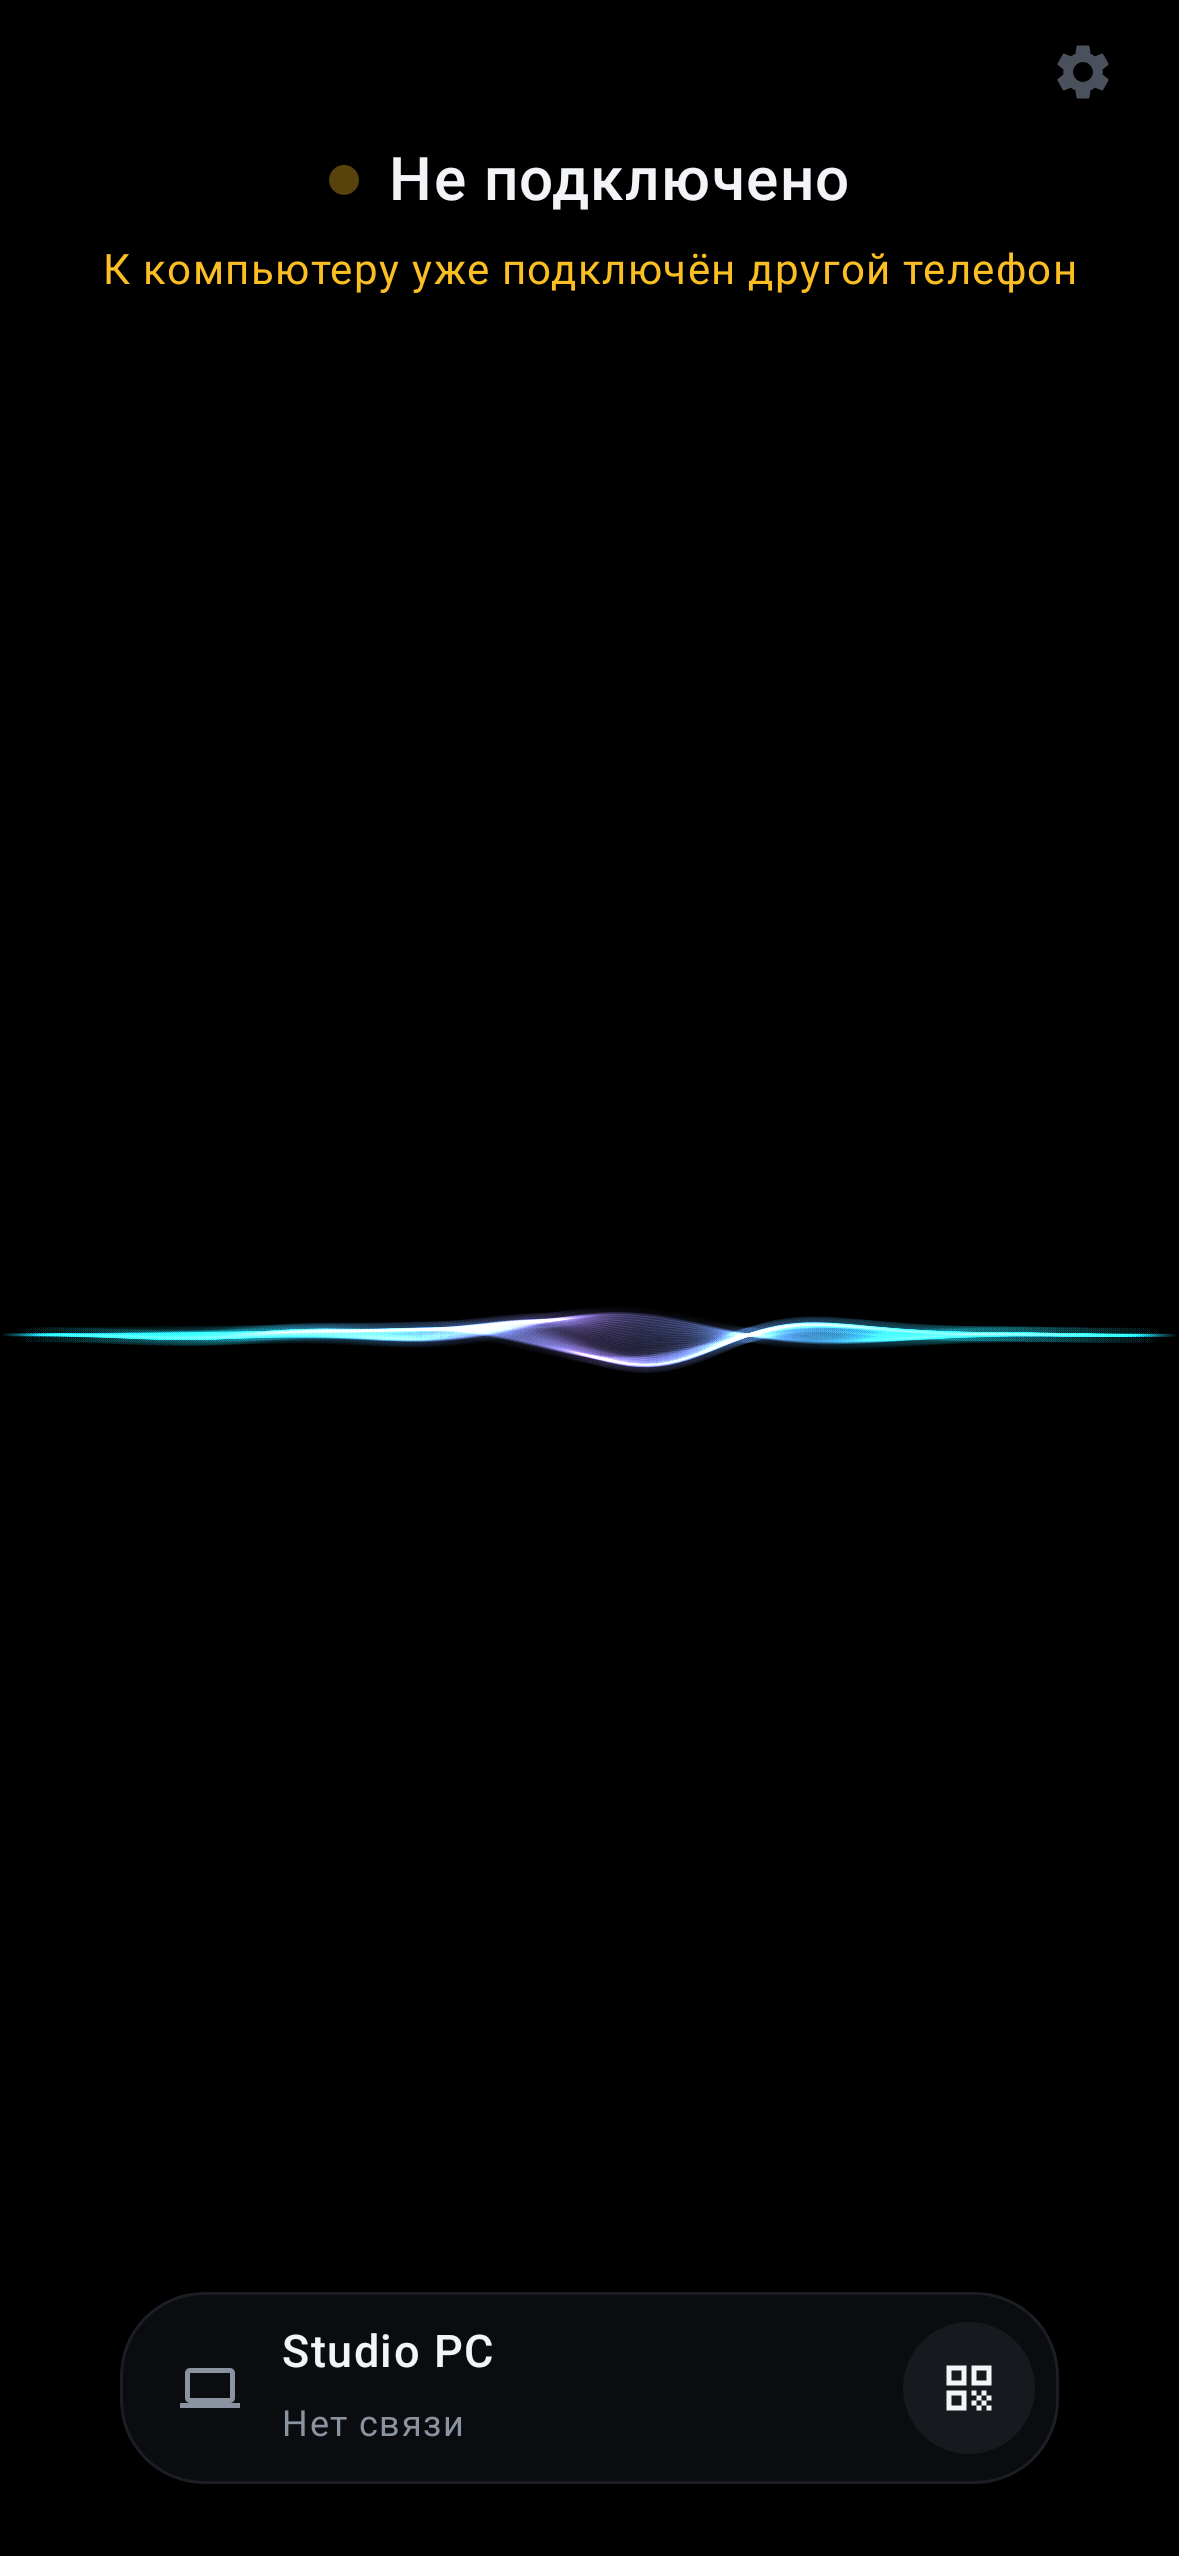
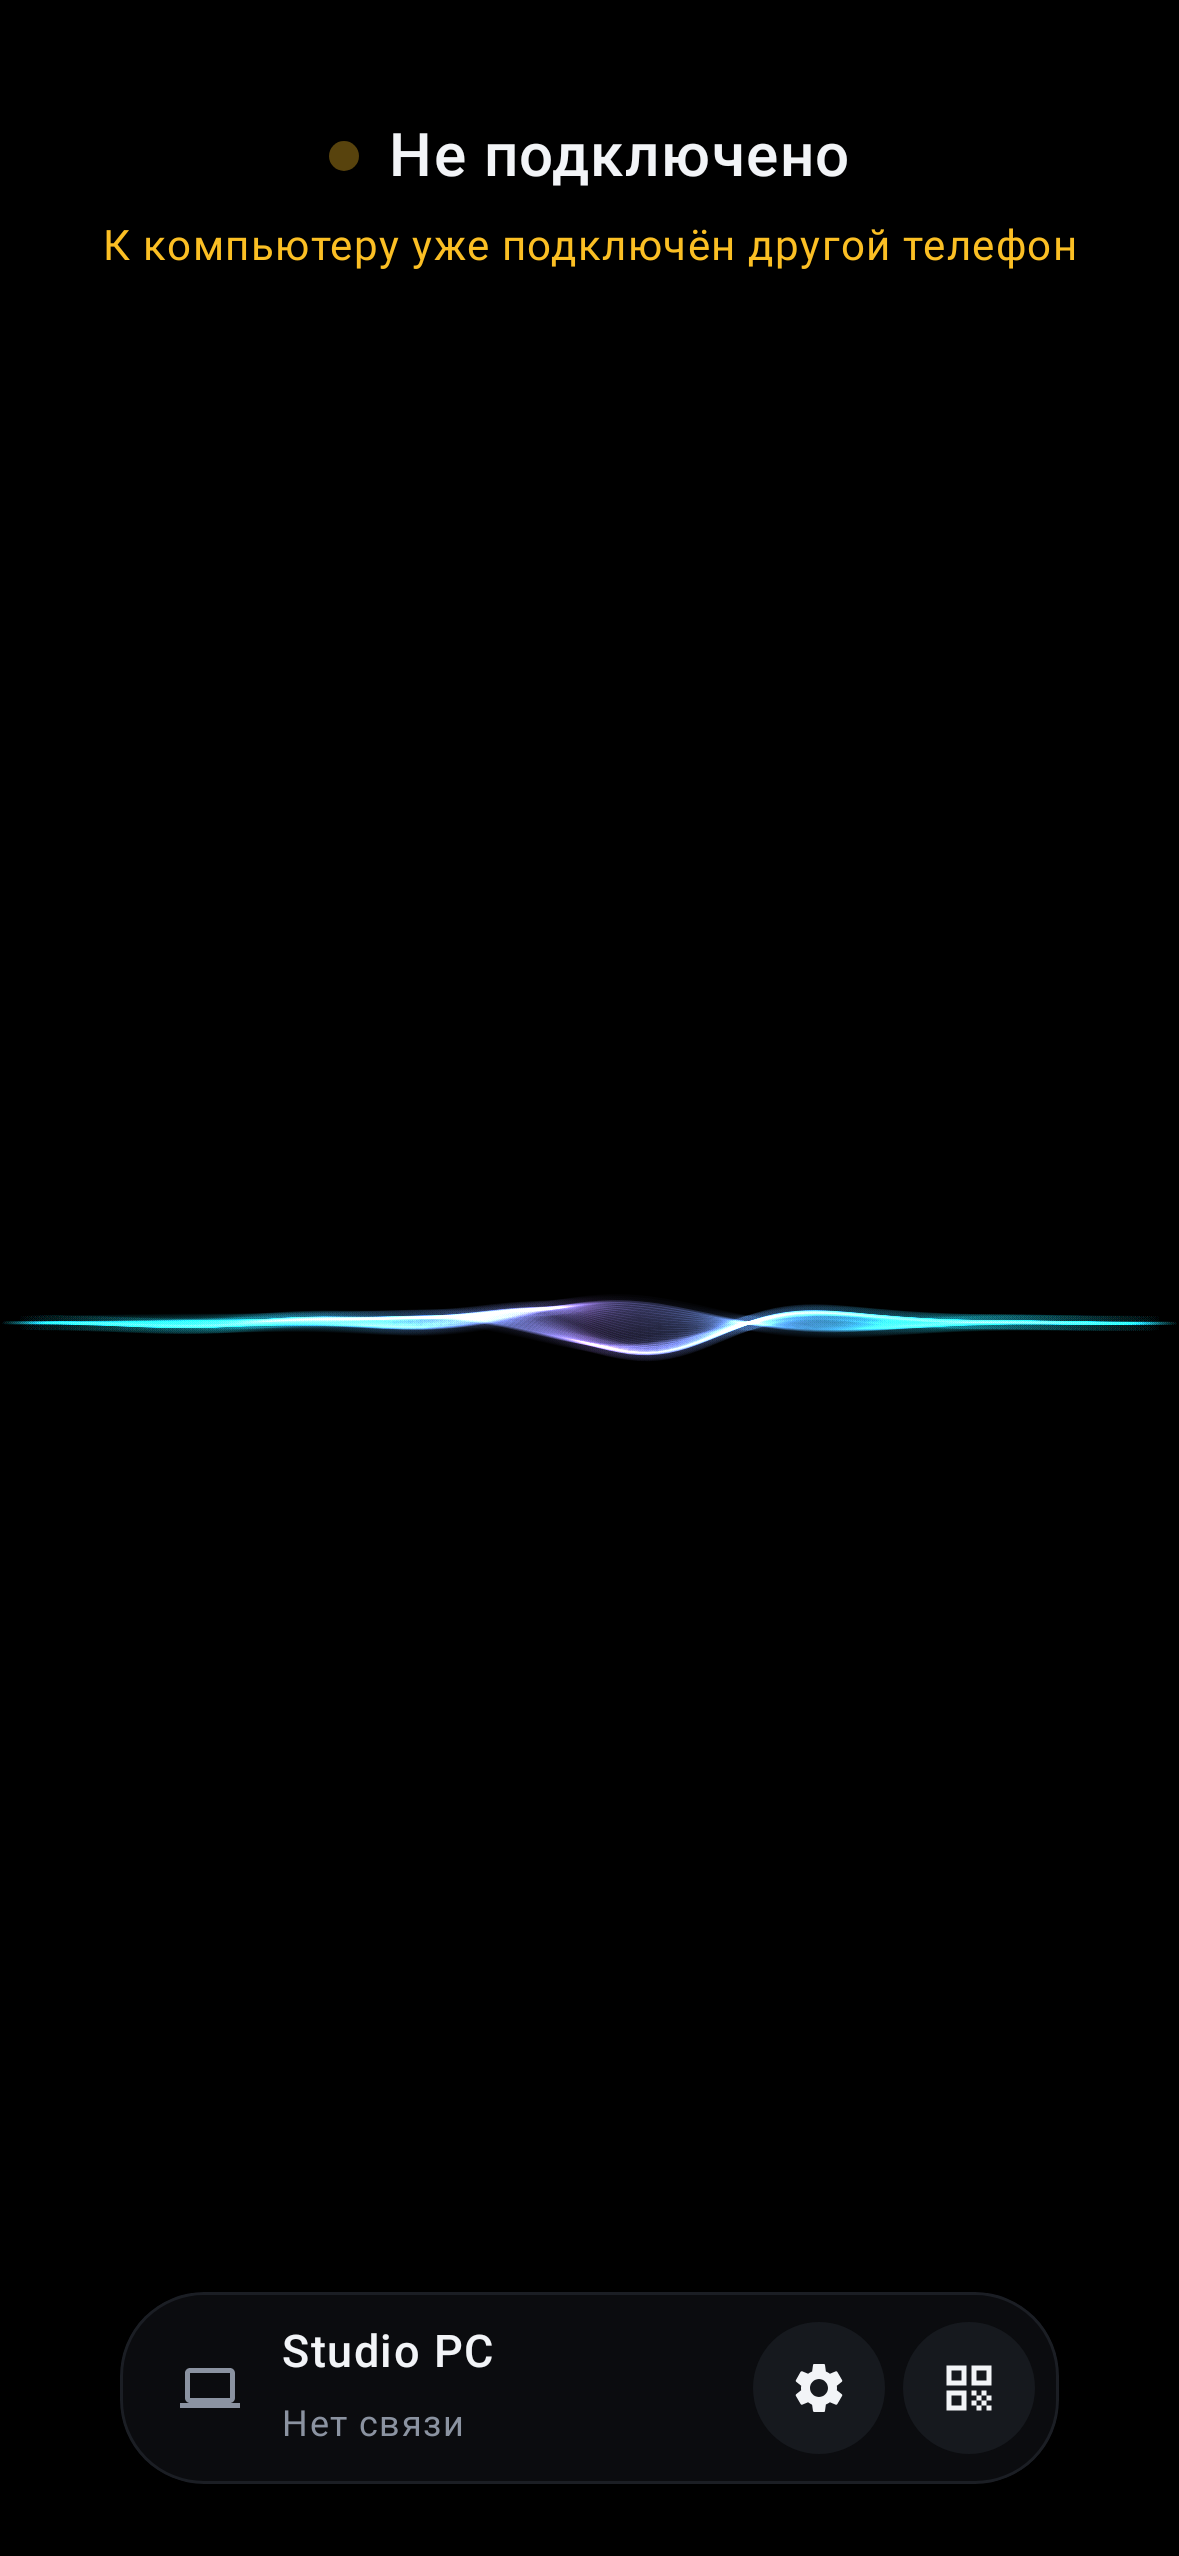
Move settings into the island on the phone
The gear sat alone in the top corner, outside the centred column everything
else follows. It now sits in the island next to the QR button, so every
control is at the bottom under the thumb and the top of the screen is only
the status.

diff --git a/android/app/src/main/java/sh/aminov/phonemic/ui/MainScreen.kt b/android/app/src/main/java/sh/aminov/phonemic/ui/MainScreen.kt
@@ -32,7 +32,6 @@ import androidx.compose.foundation.shape.CircleShape
 import androidx.compose.foundation.shape.RoundedCornerShape
 import androidx.compose.material3.ExperimentalMaterial3Api
 import androidx.compose.material3.Icon
-import androidx.compose.material3.IconButton
 import androidx.compose.material3.ModalBottomSheet
 import androidx.compose.material3.Switch
 import androidx.compose.material3.SwitchDefaults
@@ -103,17 +102,7 @@ fun MainScreen(
                 .safeDrawingPadding(),
             horizontalAlignment = Alignment.CenterHorizontally,
         ) {
-            Row(Modifier.fillMaxWidth().padding(horizontal = 8.dp), horizontalArrangement = Arrangement.End) {
-                IconButton(onClick = { settingsOpen = true }) {
-                    Icon(
-                        painterResource(R.drawable.ic_settings),
-                        contentDescription = stringResource(R.string.settings),
-                        tint = Palette.TextFaint,
-                        modifier = Modifier.size(22.dp),
-                    )
-                }
-            }
-
+            Spacer(Modifier.height(40.dp))
             StatusHeader(status)
 
             Box(Modifier.weight(1f).fillMaxWidth(), contentAlignment = Alignment.Center) {
@@ -145,7 +134,7 @@ fun MainScreen(
             if (state.pairing == null) {
                 ScanButton(onScan, Modifier.padding(bottom = 28.dp))
             } else {
-                ComputerIsland(state, onScan, Modifier.padding(bottom = 24.dp))
+                ComputerIsland(state, onScan, onSettings = { settingsOpen = true }, Modifier.padding(bottom = 24.dp))
             }
         }
     }
@@ -250,7 +239,7 @@ private fun StatusDot(color: Color, pulsing: Boolean) {
 }
 
 @Composable
-private fun ComputerIsland(state: ScreenState, onScan: () -> Unit, modifier: Modifier = Modifier) {
+private fun ComputerIsland(state: ScreenState, onScan: () -> Unit, onSettings: () -> Unit, modifier: Modifier = Modifier) {
     val link = state.link
     val context = LocalContext.current
     val detail = when {
@@ -260,6 +249,7 @@ private fun ComputerIsland(state: ScreenState, onScan: () -> Unit, modifier: Mod
         else -> stringResource(R.string.island_searching)
     }
     val changeLabel = stringResource(R.string.change_computer)
+    val settingsLabel = stringResource(R.string.settings)
     Row(
         verticalAlignment = Alignment.CenterVertically,
         modifier = modifier
@@ -289,17 +279,25 @@ private fun ComputerIsland(state: ScreenState, onScan: () -> Unit, modifier: Mod
             )
             Text(detail, color = Palette.TextDim, fontSize = 12.sp, maxLines = 1)
         }
-        Box(
-            contentAlignment = Alignment.Center,
-            modifier = Modifier
-                .size(44.dp)
-                .clip(CircleShape)
-                .background(Palette.Control)
-                .clickable(onClick = onScan)
-                .semantics { contentDescription = changeLabel },
-        ) {
-            Icon(painterResource(R.drawable.ic_qr), contentDescription = null, tint = Palette.Text, modifier = Modifier.size(20.dp))
-        }
+        // Every control lives here, under the thumb; the top of the screen is status only.
+        IslandButton(R.drawable.ic_settings, settingsLabel, onSettings)
+        Spacer(Modifier.width(6.dp))
+        IslandButton(R.drawable.ic_qr, changeLabel, onScan)
+    }
+}
+
+@Composable
+private fun IslandButton(icon: Int, label: String, onClick: () -> Unit) {
+    Box(
+        contentAlignment = Alignment.Center,
+        modifier = Modifier
+            .size(44.dp)
+            .clip(CircleShape)
+            .background(Palette.Control)
+            .clickable(onClick = onClick)
+            .semantics { contentDescription = label },
+    ) {
+        Icon(painterResource(icon), contentDescription = null, tint = Palette.Text, modifier = Modifier.size(20.dp))
     }
 }
 
